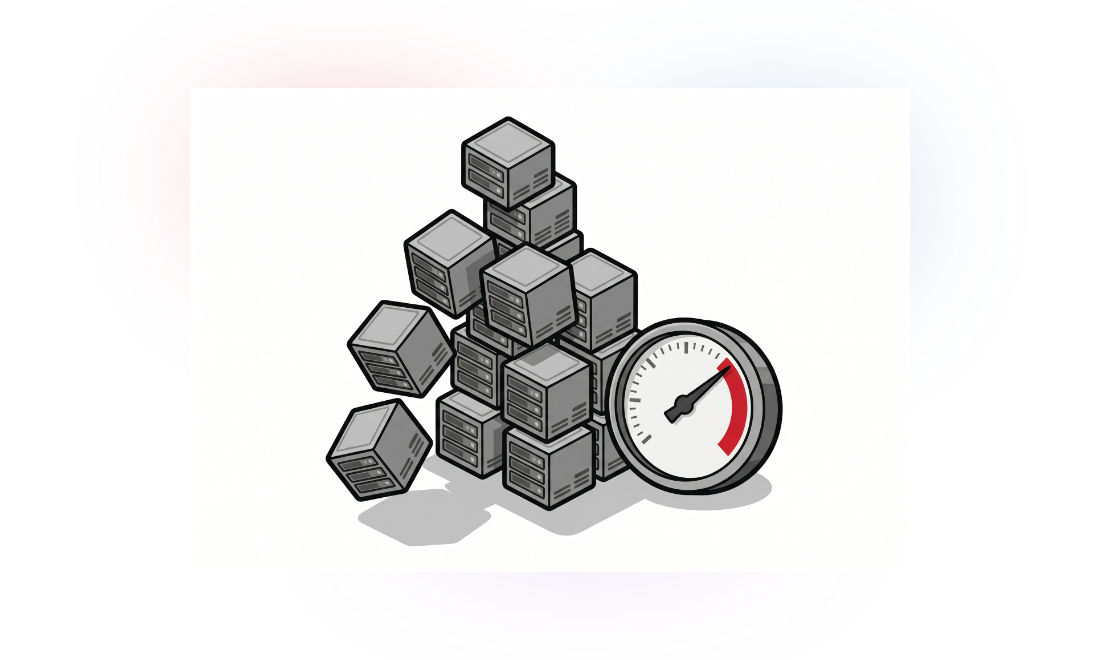
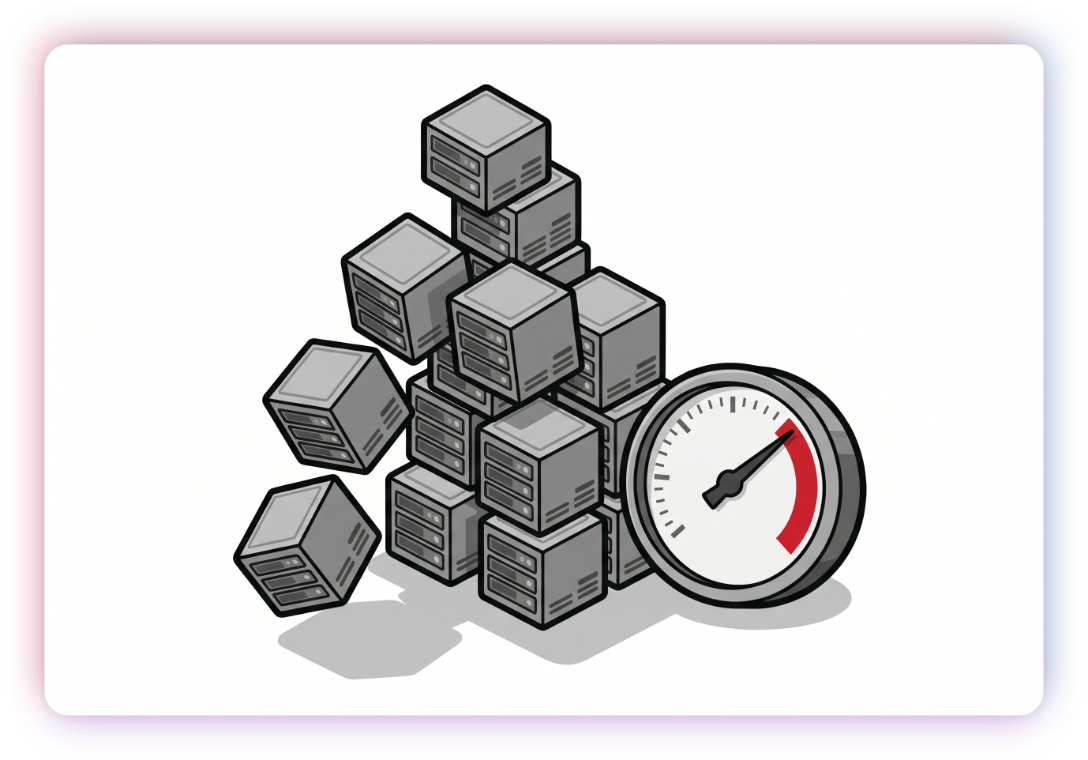
Archive hero.png from content: Agent Credit Card, tight snug-glow cards (no margin overflow): hero.png

Changed region(s): [[0.2188, 0.0909, 0.8125, 0.9091], [0.0, 0.0303, 1.0, 0.9697]]

diff --git a/projects/content/INDEX.md b/projects/content/INDEX.md
@@ -309,3 +309,4 @@
 | 2026-06-16 | images | [hero.png](images/hero.png) | Agent Credit Card article, static hero (reverted from animation): hero.png | /Users/marcokotrotsos/PERSONAL/Content/drafts/agent-credit-card/hero.png |
 | 2026-06-16 | reports | [draft.html](reports/draft.html) | Agent Credit Card article, static hero (reverted from animation): draft.html | /Users/marcokotrotsos/PERSONAL/Content/drafts/agent-credit-card/draft.html |
 | 2026-06-16 | reports | [substack-version.html](reports/substack-version.html) | Agent Credit Card article, static hero (reverted from animation): substack-version.html | /Users/marcokotrotsos/PERSONAL/Content/drafts/agent-credit-card/substack-version.html |
+| 2026-06-16 | images | [hero.png](images/hero.png) | Agent Credit Card, tight snug-glow cards (no margin overflow): hero.png | /Users/marcokotrotsos/PERSONAL/Content/drafts/agent-credit-card/hero.png |

diff --git a/INDEX.md b/INDEX.md
@@ -569,3 +569,4 @@
 | 2026-06-16 | content | images | [hero.png](projects/content/images/hero.png) | Agent Credit Card article, static hero (reverted from animation): hero.png |
 | 2026-06-16 | content | reports | [draft.html](projects/content/reports/draft.html) | Agent Credit Card article, static hero (reverted from animation): draft.html |
 | 2026-06-16 | content | reports | [substack-version.html](projects/content/reports/substack-version.html) | Agent Credit Card article, static hero (reverted from animation): substack-version.html |
+| 2026-06-16 | content | images | [hero.png](projects/content/images/hero.png) | Agent Credit Card, tight snug-glow cards (no margin overflow): hero.png |
